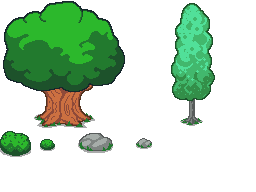
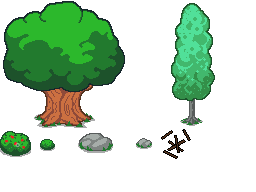
a

Changed region(s): [[0.625, 0.6562, 0.75, 0.8438], [0.0, 0.6875, 0.0938, 0.7812]]

diff --git a/static/game.js b/static/game.js
@@ -34,6 +34,7 @@ var config = {
     // Charger les sprites correctement
     this.load.image('pickUpIcon', '/static/sprite_sheets/PickUp.png');
     this.load.image('tiles', 'static/tilemaps/TileSet_V2.png');
+    this.load.image('vegetation', 'static/tilemaps/vegetation.png');
     //this.load.image('Water', 'static/tilemaps/water_animation_spritesheet.png');
     this.load.tilemapTiledJSON('map', 'static/tilemaps/map_test5.tmj')
     this.load.spritesheet('player', '/static/sprite_sheets/playerr.png', { frameWidth: 64, frameHeight: 64 });
@@ -41,25 +42,58 @@ var config = {
 
   function create () {
 
+    // On init le joueur avant tout
+    this.player = new Player(this, 300,300, true)
+    player = this.player;
+
+
     const map = this.add.tilemap('map')
     console.log(map);
     //on créé le jeu de tuile avec son nom et l'image dont on a besoin
     const tileset1 = map.addTilesetImage('TileSet_V2', 'tiles');
+    const tileset2 = map.addTilesetImage('vegetation', 'vegetation');
     //const tileset2 = map.addTilesetImage('water_animation_spritesheet', 'Water');
     this.layerEau = map.createLayer('island', [tileset1]); 
+    this.mapElements = map.createLayer('elements', [tileset2]); 
     let layerEau = this.layerEau
 
     this.physics.world.setBounds(0, 0, 800 * 8, 600 * 8);
 
+    let berryBushes = this.mapElements.filterTiles(tile => {
+      return tile.properties && tile.properties.name == "berryBush";
+    });
+
+    let woodPiles = this.mapElements.filterTiles(tile => {
+      return tile.properties && tile.properties.name == "woodPile";
+    });
+
+    console.log(berryBushes)
+    this.elements = []
+    for(let berryBush_i in berryBushes) {
+      let berryBush = new BerryBush(this, berryBushes[berryBush_i].pixelX + 16, berryBushes[berryBush_i].pixelY + 16)
+      this.elements.push(berryBush)
+        
+      this.physics.add.collider(this.player, berryBush, function() {
+        console.log('Collision avec berry bush !');
+      });
+    }
+
+    for(let woodPile_i in woodPiles) {
+      let woodPile = new BerryBush(this, woodPiles[woodPile_i].pixelX + 16, woodPiles[woodPile_i].pixelY + 16)
+      this.elements.push(woodPile)
+        
+      this.physics.add.collider(this.player, woodPile, function() {
+        console.log('Collision avec woodPile !');
+      });
+    }
+
     this.berryBush = new BerryBush(this, 200, 200)
     this.oakPlank = new OakPlanks(this, 250, 200)
-    this.player = new Player(this, 300,300, true)
-    player = this.player;
-
-    this.elements = [
+    /*this.elements = [
       this.berryBush,
       this.oakPlank
-    ]
+    ]*/
+    console.log(this.elements)
 
     this.cameras.main.startFollow(this.player, true);
     this.physics.add.collider(
@@ -113,6 +147,7 @@ var config = {
       })
     })
     
+
 
     this.add.existing(this.berryBush)
     this.add.existing(this.oakPlank)
